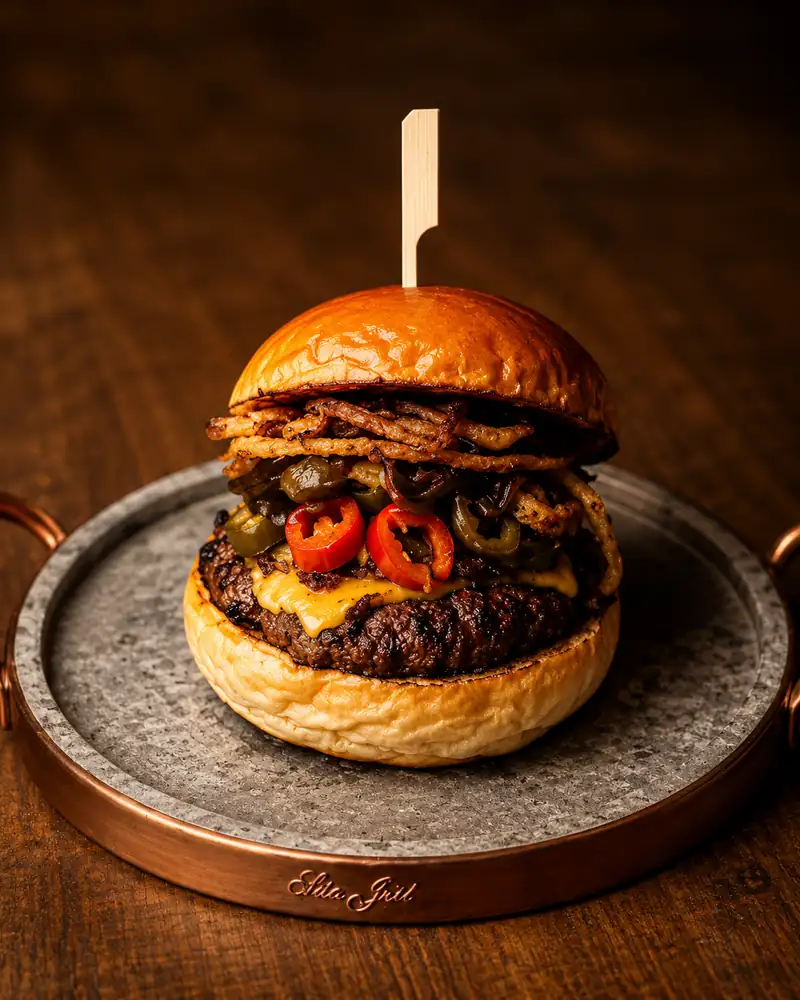
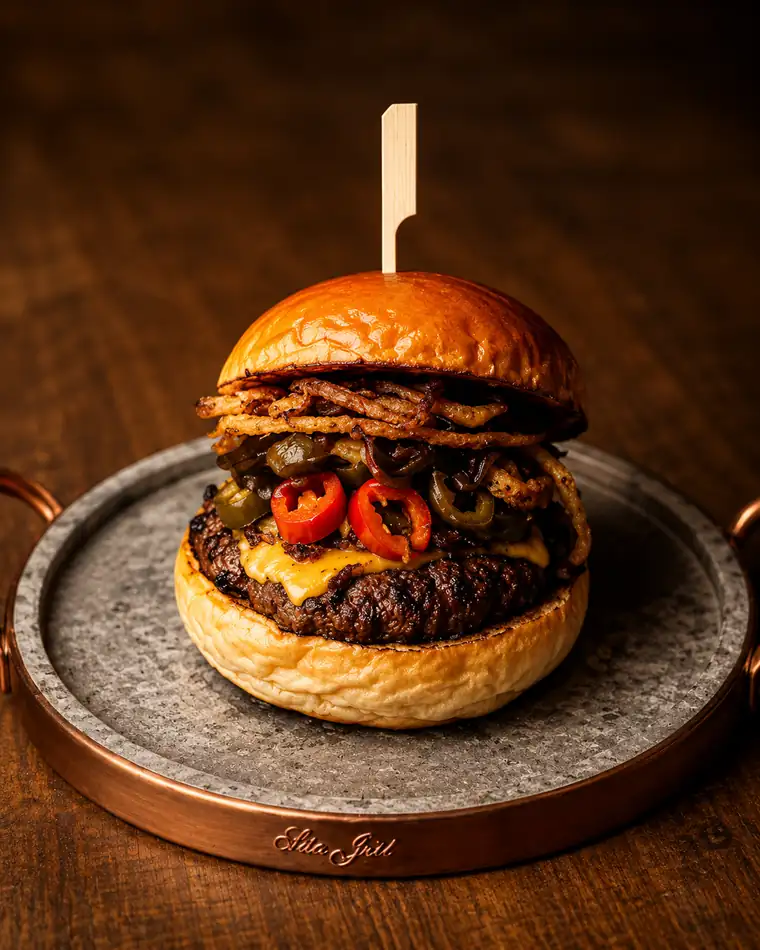
feat(hero): o take vertical nativo do dono entra no lugar do recorte
O dono gerou a imagem com o prompt que ficou registrado ontem — as contas de
geração seguem zeradas, então isso saiu fora daqui e custou 0 crédito ao
projeto. Vieram duas variantes; a escolhida é a de 941x1672, 9:16 exato.

O QUE MUDA DE VERDADE É RESOLUÇÃO. O recorte do arquivo deitado, que estava no
ar desde hoje de manhã, resolvia o enquadramento e o peso mas não isso: 432px de
fonte para os 1170px físicos de um DPR3, ampliação de 2,7x. O take nativo entra
com 800px: 1,46x.

AVIF, e a ordem do `<source>` é a decisão. 48.070 bytes contra 63.798 do webp na
mesma imagem — 75%. Ganha porque é foto escura, com fumaça e gradiente de céu,
que é onde o webp gasta bits em banding. O `<source type="image/avif">` vem
ANTES do webp porque o navegador pega o primeiro que casa com a media query e
sabe decodificar; invertendo, todo mundo levaria o webp e o avif nunca seria
pedido.

A CONTA DO PESO FOI PAGA, NÃO IGNORADA. O take custa ~24 kB a mais que o
recorte. Esses bytes saíram das quatro fotos próprias do carrossel, que desceram
de 800x1000 para 760x950: lá a ampliação era 1,07x — folga que a tela não usa —
e virou 1,13x. Aqui os 2,7x eram visíveis. Trocar folga invisível por defeito
visível é o melhor uso desses bytes.

Medido em 360x640, 390x844 e 430x932, com a foto isolada do texto (senão o pico
de brilho medido é o próprio subtítulo em creme): contraste do título entre
9,5 e 9,6:1, com AA grande exigindo 3,0; pico do produto em rgb(232,228,226)
[…]

diff --git a/assets/prompts.md b/assets/prompts.md
@@ -751,3 +751,56 @@ qualidade ~78 e substituir `public/assets/hero-vertical.webp`. **Medir o peso
 antes de trocar** — o recorte atual custa 23.876 bytes e a folga do orçamento é
 de 17,9 kB. Um take nativo maior pode não caber; nesse caso, ou ele nasce menor,
 ou algo sai para pagar.
+
+---
+
+## 2026-09-02 — hero vertical 9:16 GERADO pelo dono ★ (em produção)
+
+- **Gerado por:** o dono, fora deste ambiente, com o prompt da entrada anterior
+- **Custo para o projeto:** 0 crédito (as contas seguem zeradas — ver `CLAUDE.md`)
+- **Entrada:** 941×1672 PNG, 9:16 exato · **Saída:** `public/assets/hero-vertical.avif`
+  (800×1421, **48.070 bytes**) + `.webp` de fallback (67.122)
+- **Nota:** 5/5 — o prompt entregou o que pedia
+
+**O que veio.** Duas variantes. A escolhida tem o burger em primeiro plano na
+metade de baixo sobre a bandeja de cobre, molho escorrendo, gergelim solto; a
+grelha com as carnes atrás e fora de foco; brasa acesa visível; fumaça âmbar
+subindo; pôr do sol e árvores do cerrado em silhueta na borda; pano encardido e
+madeira gasta no canto. Os sete blocos do prompt aparecem no quadro.
+
+A variante descartada (572×1024) tinha o topo mais escuro — melhor para o texto
+— mas resolução baixa demais: 572px de fonte para 1170px de tela.
+
+**AVIF e não webp, e a ordem do `<source>` importa.** 48.070 contra 63.798
+bytes na mesma imagem (75%). Ganha aqui porque é foto escura com fumaça e
+gradiente de céu, exatamente onde o webp gasta bits em banding. O `<source>`
+avif vem ANTES do webp: o navegador pega o primeiro que casa e sabe decodificar.
+
+**Medido depois de aplicar,** em 360×640, 390×844 e 430×932, com a foto isolada
+do texto:
+
+| | recorte anterior | take nativo |
+|---|---|---|
+| fonte para 1170px de tela (DPR3) | 432px → **2,7×** | 800px → **1,46×** |
+| contraste do título | 9,8–10,0:1 | **9,5–9,6:1** (AA grande exige 3,0) |
+| pico de brilho do produto | rgb(213,188,175) | **rgb(232,228,226)** |
+| peso | 23.876 B | **48.070 B** |
+
+**A conta do peso foi paga, não ignorada.** Os ~24 kB a mais saíram das quatro
+fotos próprias do carrossel, que desceram de 800×1000 para 760×950 — lá a
+ampliação era 1,07×, folga que a tela não usa, e virou 1,13×. Aqui os 2,7×
+eram visíveis. Total da rota medido por CDP com a página rolada inteira:
+**1.497.233 bytes**, folga de 2.767 contra o teto de 1,5 MB.
+
+**A folga agora é de 0,2%.** Qualquer imagem nova precisa vir com o que sai
+junto — não há mais espaço para acrescentar sem tirar. O maior alvo continua
+sendo o vídeo da Cena 2: 784 kB, 52% da rota.
+
+O arquivo bruto de 941×1672 está em `assets/hero/take-vertical-b.png`, que é
+ignorado pelo git de propósito. Para regerar as saídas:
+
+```
+node -e "const s=require('sharp');(async()=>{const src='assets/hero/take-vertical-b.png';
+s(src).resize({width:800,kernel:'lanczos3'}).avif({quality:44,effort:6}).toFile('public/assets/hero-vertical.avif');
+s(src).resize({width:800,kernel:'lanczos3'}).webp({quality:58,effort:6}).toFile('public/assets/hero-vertical.webp');})()"
+```
